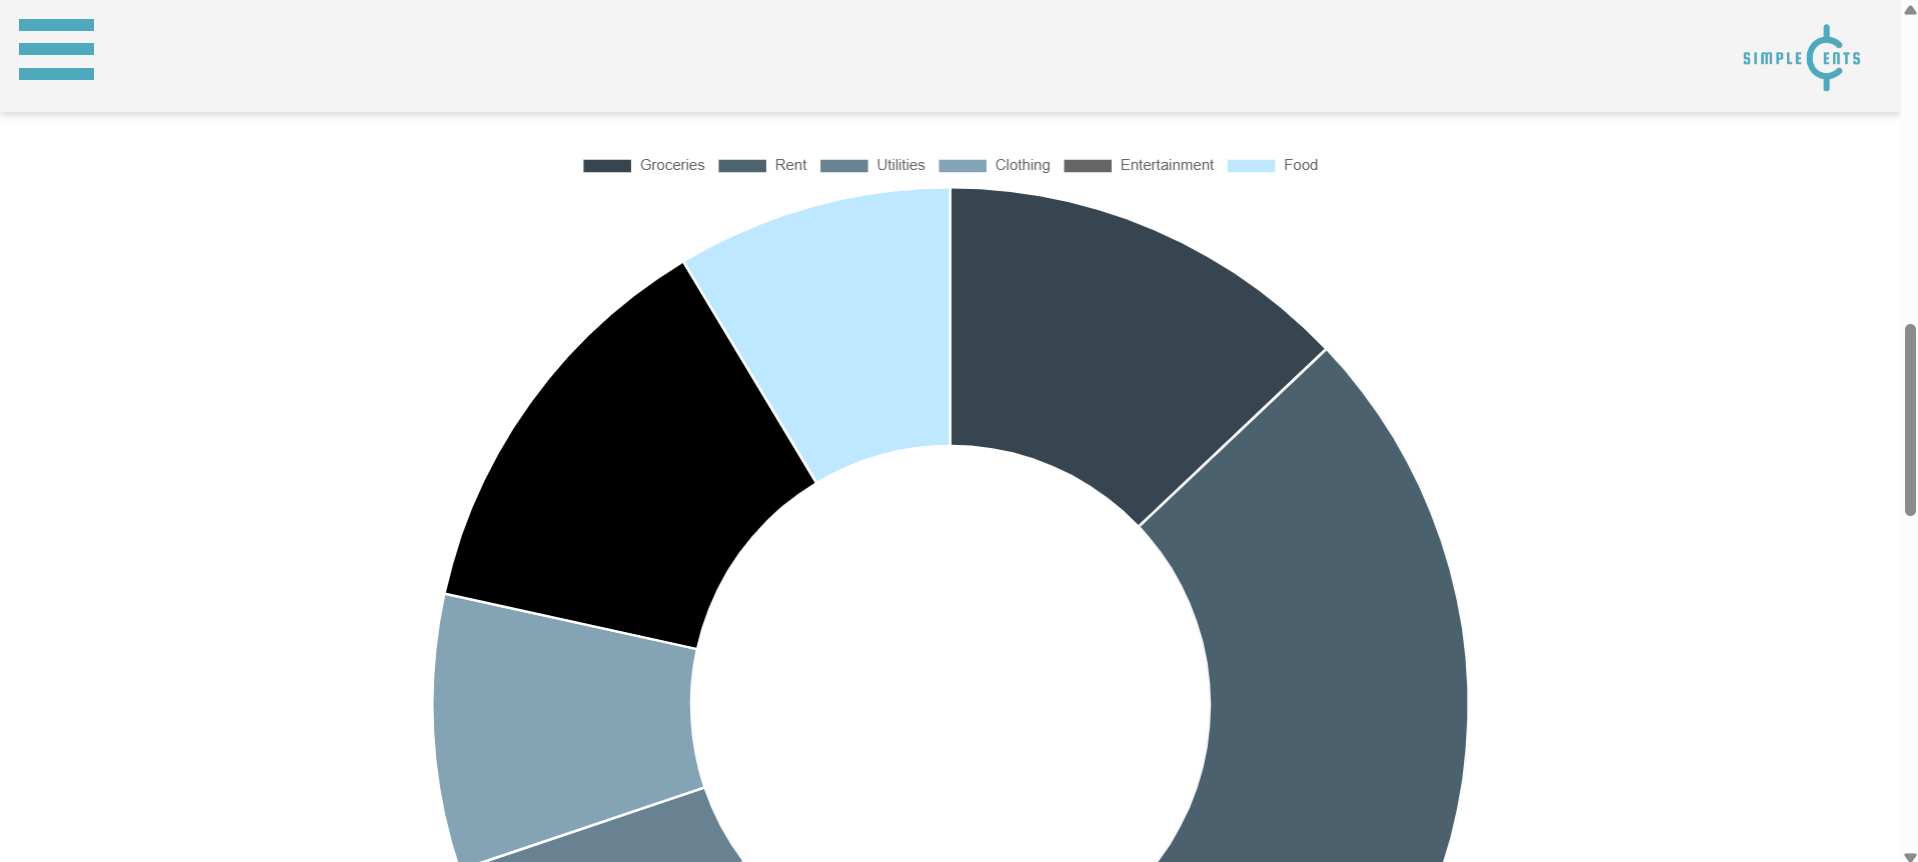
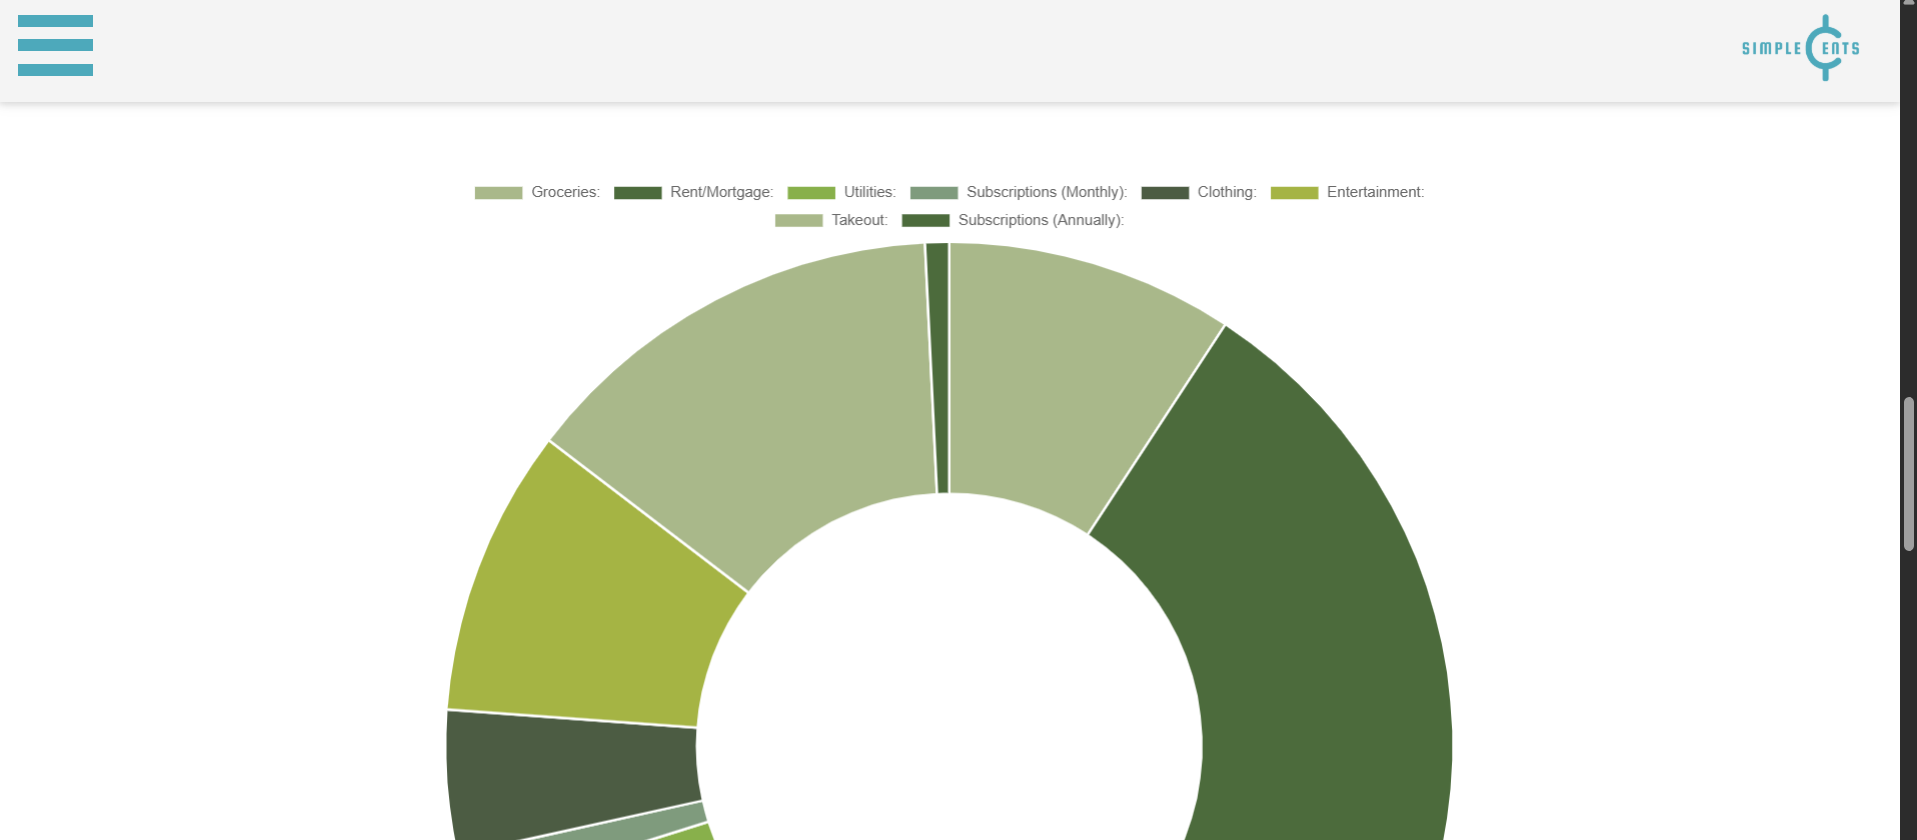
updated deliverable with link to video.

Changed region(s): [[0.2154, 0.1857, 0.7694, 1.0], [0.8925, 0.0, 1.0, 1.0], [0.0, 0.0, 0.0616, 0.0929]]

diff --git a/SimpleCents/expense-tracker/index.html b/SimpleCents/expense-tracker/index.html
@@ -122,7 +122,7 @@
             <h3>Results</h3>
             <p>Estimated Total Annual Income: $<span id="totalIncomeResult">0</span></p>
             <p>Estimated Annual Take Home Pay: $<span id="payResult">0</span></p>
-            <p>Total Annual Estimated Expenses: $<span id="expenseResult">0</span></p>
+            <p>Estimated Total Annual Expenses: $<span id="expenseResult">0</span></p>
             <p>Remaining Balance: $<span id="balanceResult">0</span></p>
         </div>
     </body>

diff --git a/SimpleCents/budget-maker/index.html b/SimpleCents/budget-maker/index.html
@@ -108,7 +108,7 @@
                 <button onclick="addExpense()" id="addExpense">+ Add Expense</button>
             </div>
 
-            <input type="submit" name="submit" id="calculateBtn" value="Calulate" required>
+            <input type="submit" name="submit" id="calculateBtn" value="Calculate" required>
         </div>
         <div class="summary-container">
             <div class="summary-object">

diff --git a/cs386/deliverables/deliverable6/deliverable6.md b/cs386/deliverables/deliverable6/deliverable6.md
@@ -22,11 +22,11 @@ Approved by: Jered Angous
 
 ![financial wellness page](requirement1.png)
 
-Requirement: As a user I would like to see a neat color gradient for the chart developed that fits in with the website.
+Requirement: As a user I would like to see a neat color gradient for the chart developed that fits in with the website so that it all comes together nicely.
 
 Issue: https://github.com/brenden-matteson/cs386/issues/58 
 
-Pull request: https://github.com/brenden-matteson/cs386/pull/60
+Pull request: https://github.com/brenden-matteson/cs386/pull/67
 
 Implemented by: Makaela Crookes
 
@@ -156,7 +156,7 @@ When running the tests, it checks all test suites.
 
 ## Demo
 
-we dont have a demo yet!
+Demo Video: https://youtu.be/Pew8I06R6-M
 
 ## Code Quality
 
